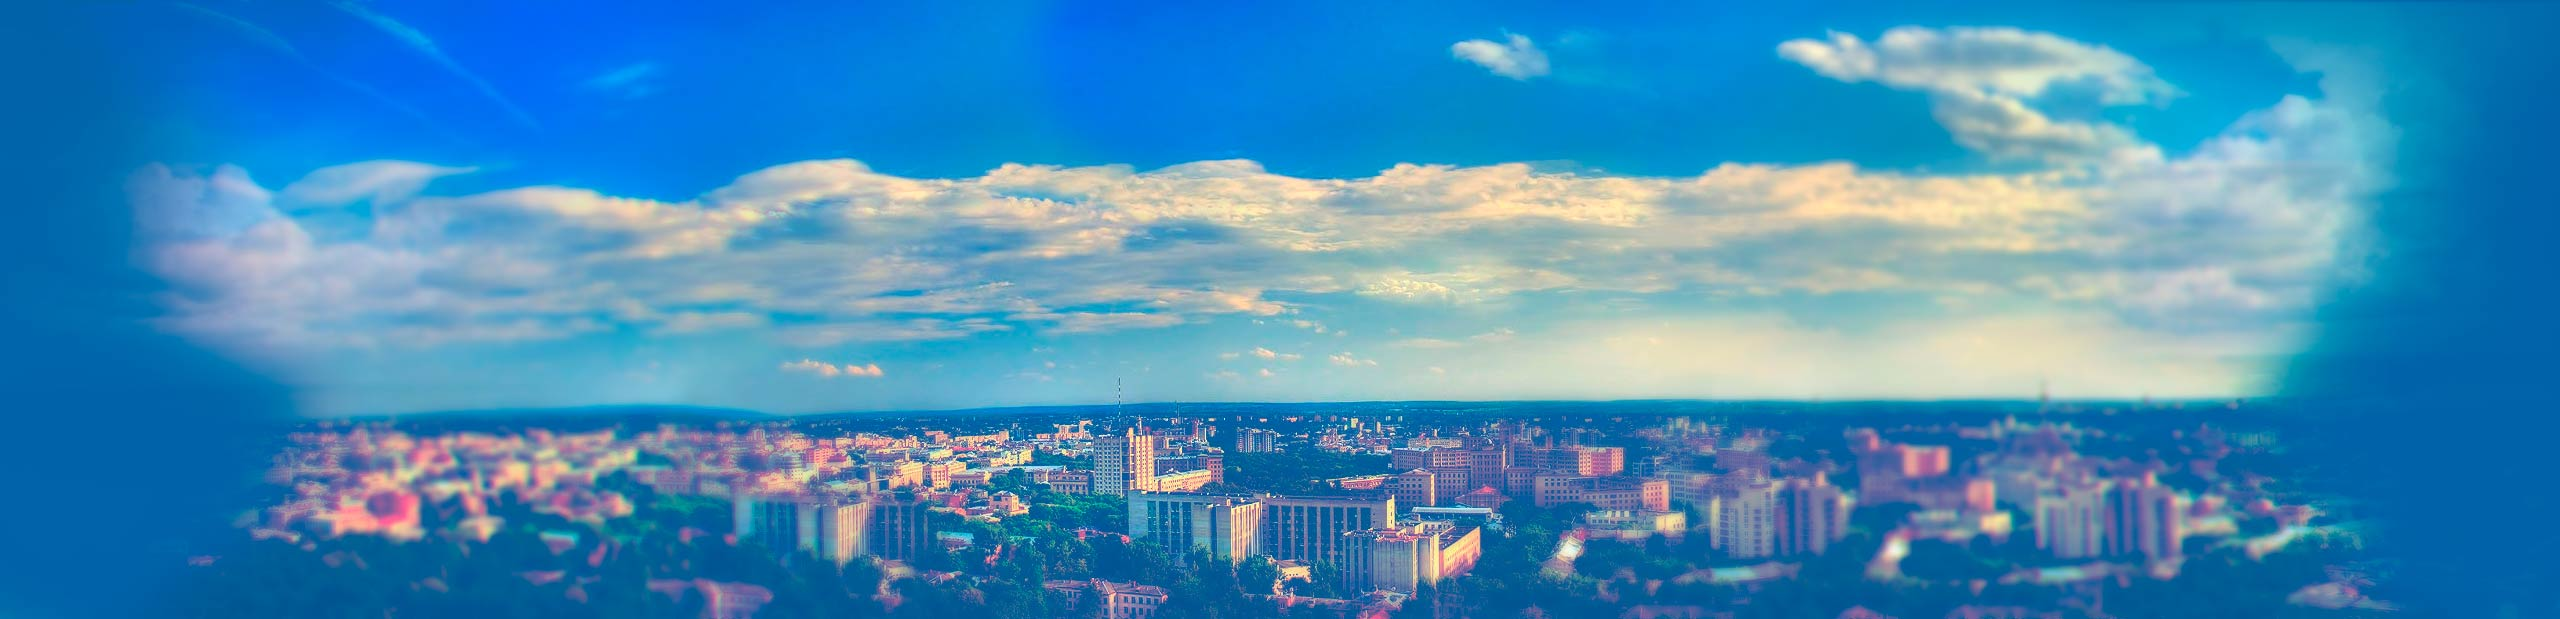
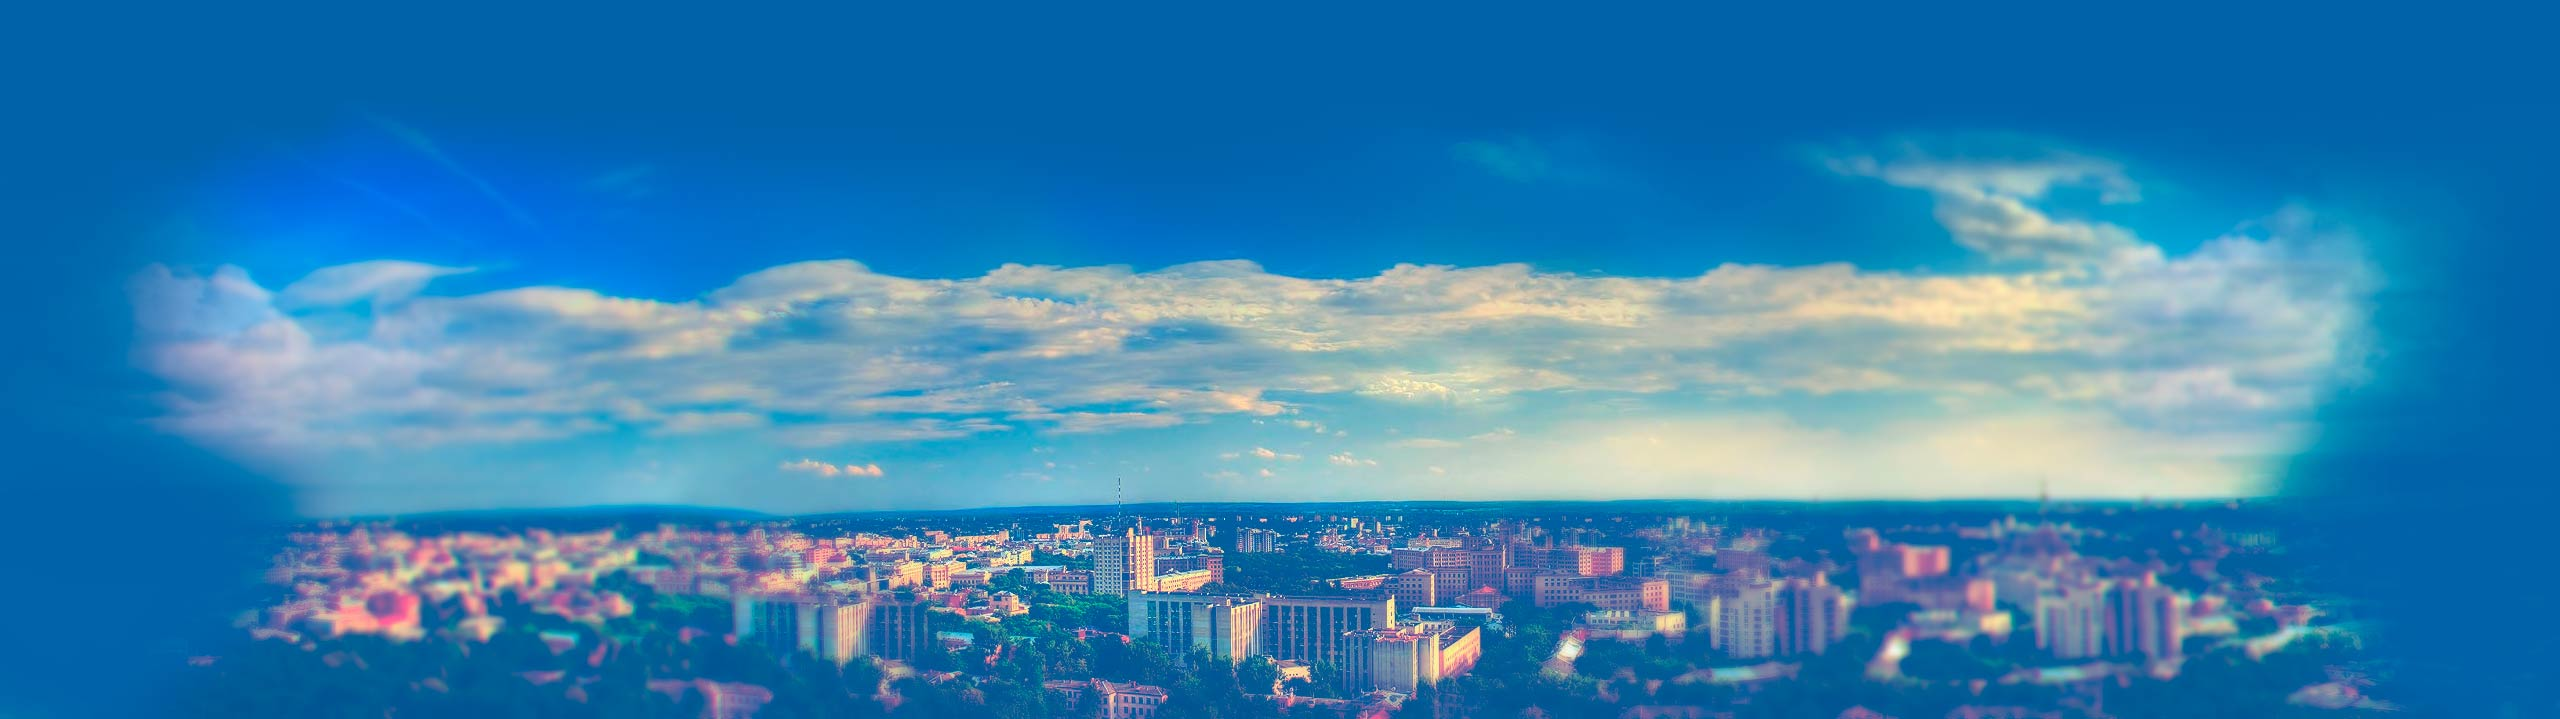
fixed image fixed hero header h5..

diff --git a/css/style.css b/css/style.css
@@ -1293,6 +1293,7 @@ background-color $white .image-right {
   text-transform: uppercase;
   font-size: 14em;
   line-height: 1em;
+  font-family: 'Arimo', sans-serif;
 }
 #home .hero h1.kafedra-fullname {
   text-transform: uppercase;
@@ -1300,6 +1301,8 @@ background-color $white .image-right {
   font-size: 1.35em;
   line-height: 1em;
   word-spacing: 0.45em;
+  margin-top: -0.5em;
+  letter-spacing: 0.03em;
 }
 #home .hero .buttons {
   padding: 100px 0 0 0;
@@ -1310,7 +1313,7 @@ background-color $white .image-right {
   overflow: hidden;
   position: absolute;
   background-image: url("../img/heroimage2.jpg");
-  background-position: top 100px center;
+  background-position: top center;
   background-attachment: fixed;
   background-repeat: no-repeat;
 }

diff --git a/verstka/dist/css/style.css b/verstka/dist/css/style.css
@@ -1293,6 +1293,7 @@ background-color $white .image-right {
   text-transform: uppercase;
   font-size: 14em;
   line-height: 1em;
+  font-family: 'Arimo', sans-serif;
 }
 #home .hero h1.kafedra-fullname {
   text-transform: uppercase;
@@ -1300,6 +1301,8 @@ background-color $white .image-right {
   font-size: 1.35em;
   line-height: 1em;
   word-spacing: 0.45em;
+  margin-top: -0.5em;
+  letter-spacing: 0.03em;
 }
 #home .hero .buttons {
   padding: 100px 0 0 0;
@@ -1310,7 +1313,7 @@ background-color $white .image-right {
   overflow: hidden;
   position: absolute;
   background-image: url("../img/heroimage2.jpg");
-  background-position: top 100px center;
+  background-position: top center;
   background-attachment: fixed;
   background-repeat: no-repeat;
 }
